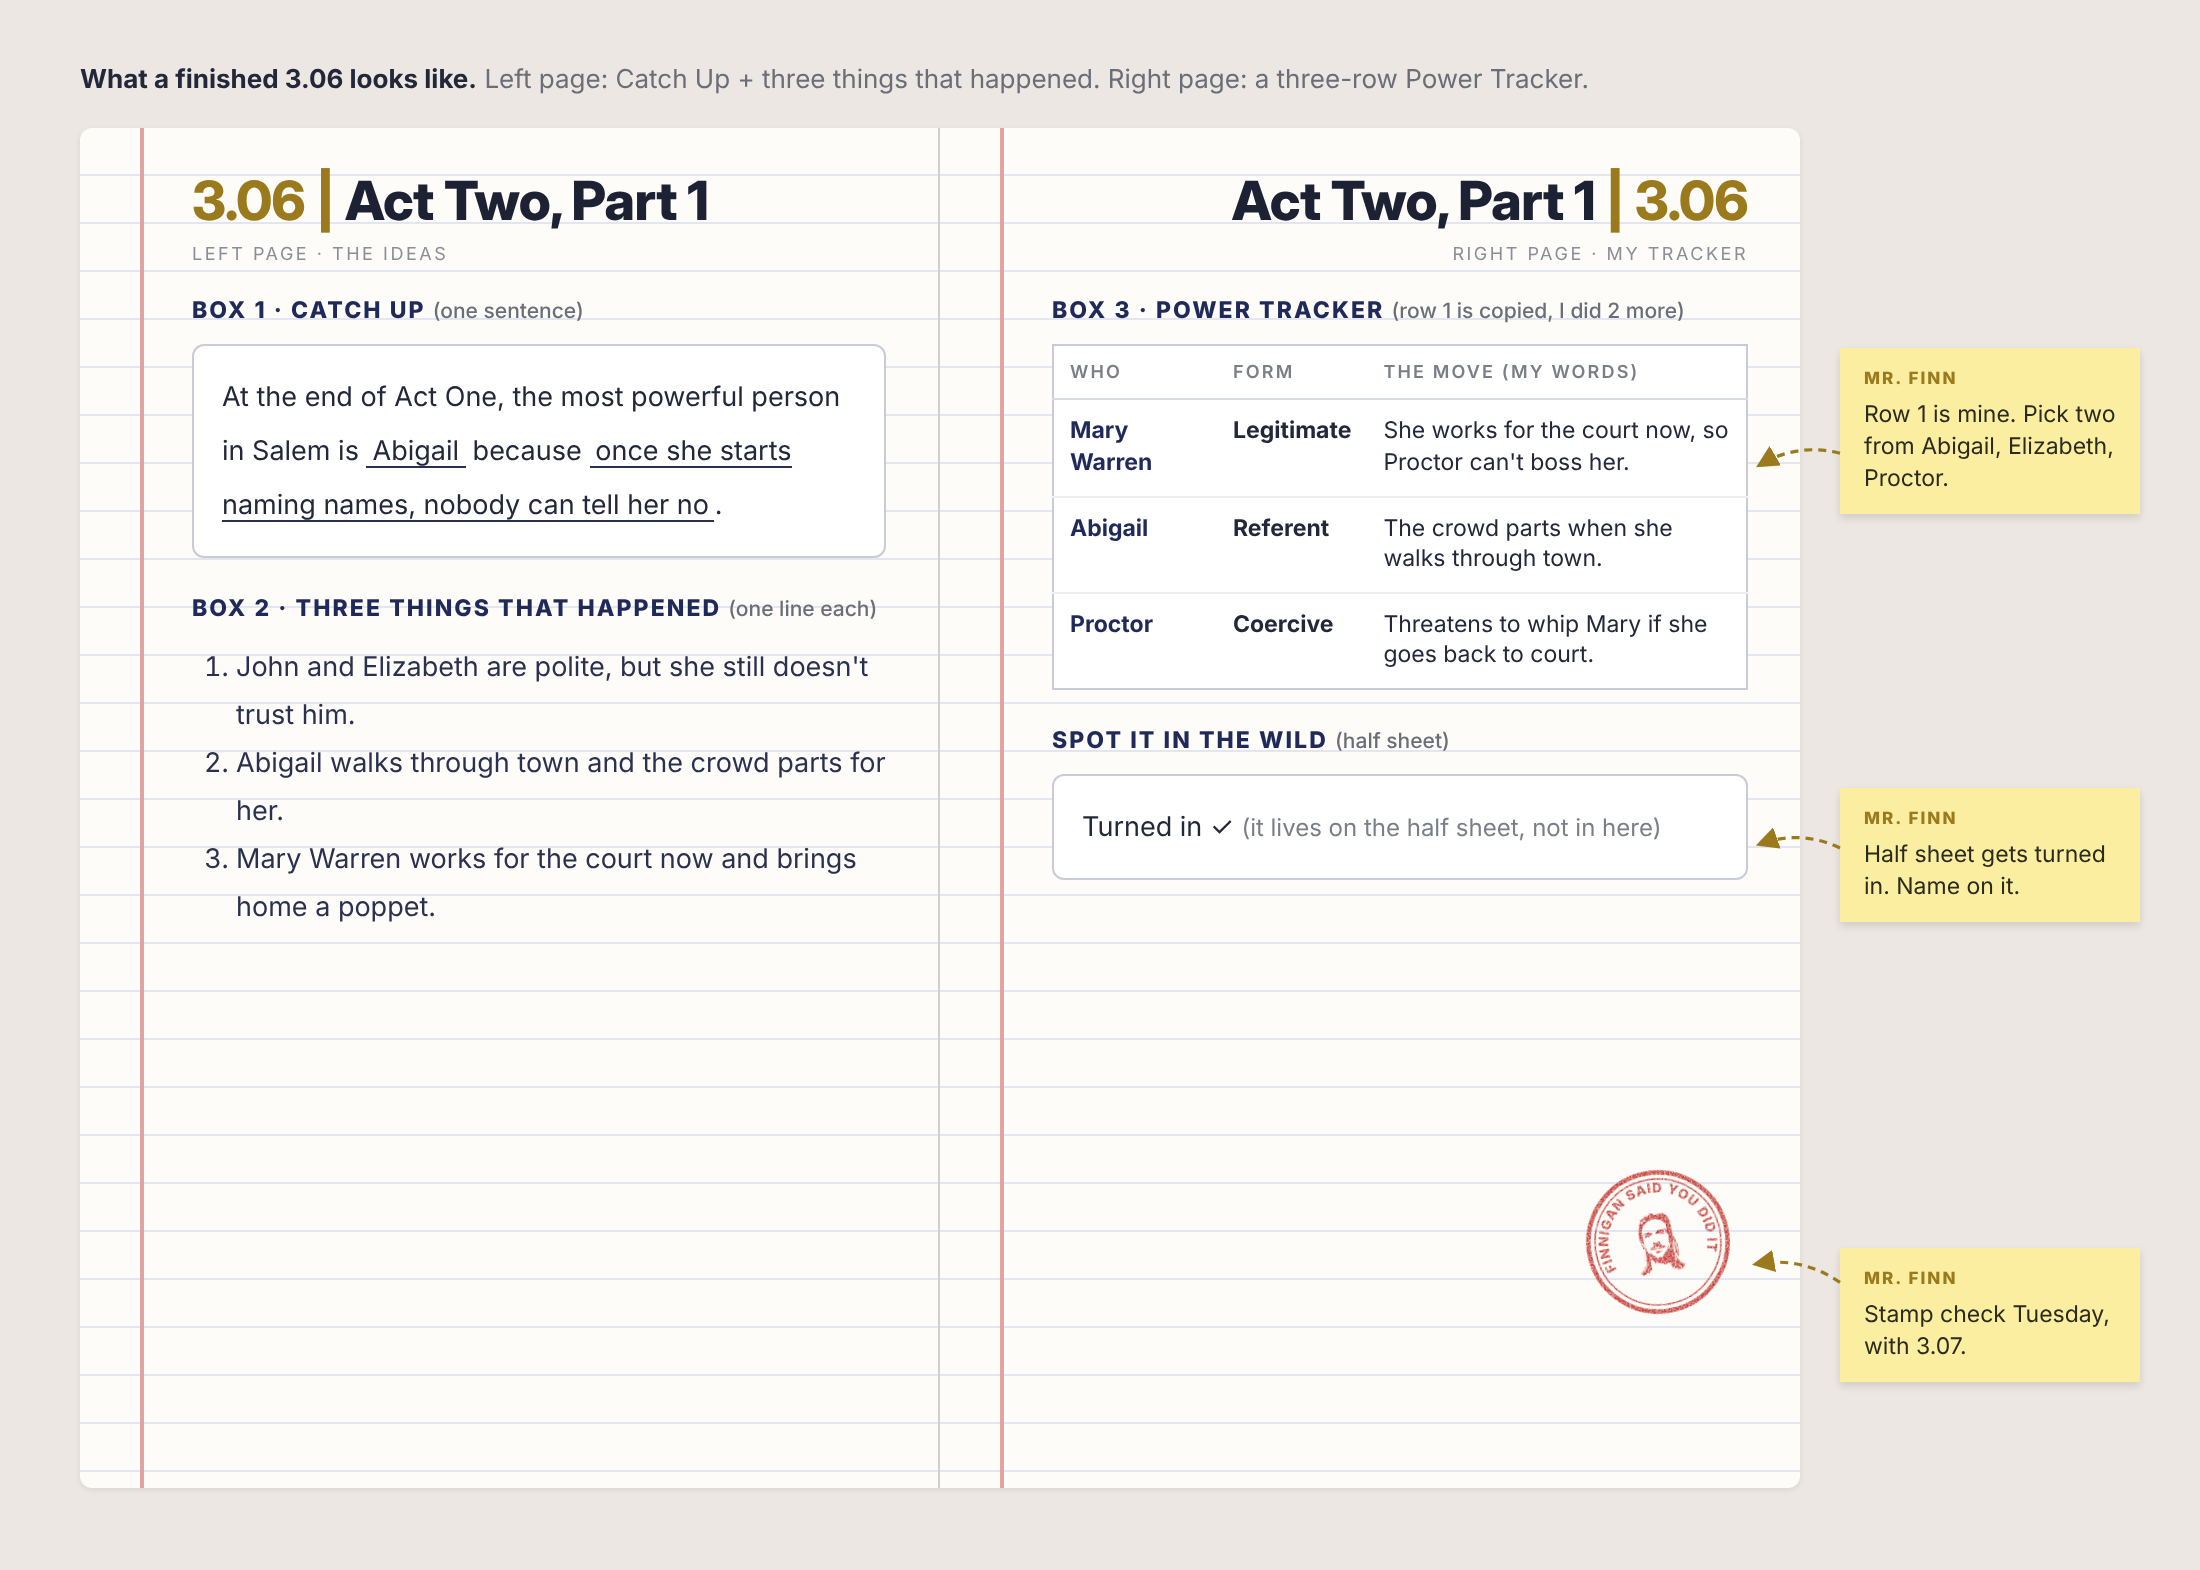
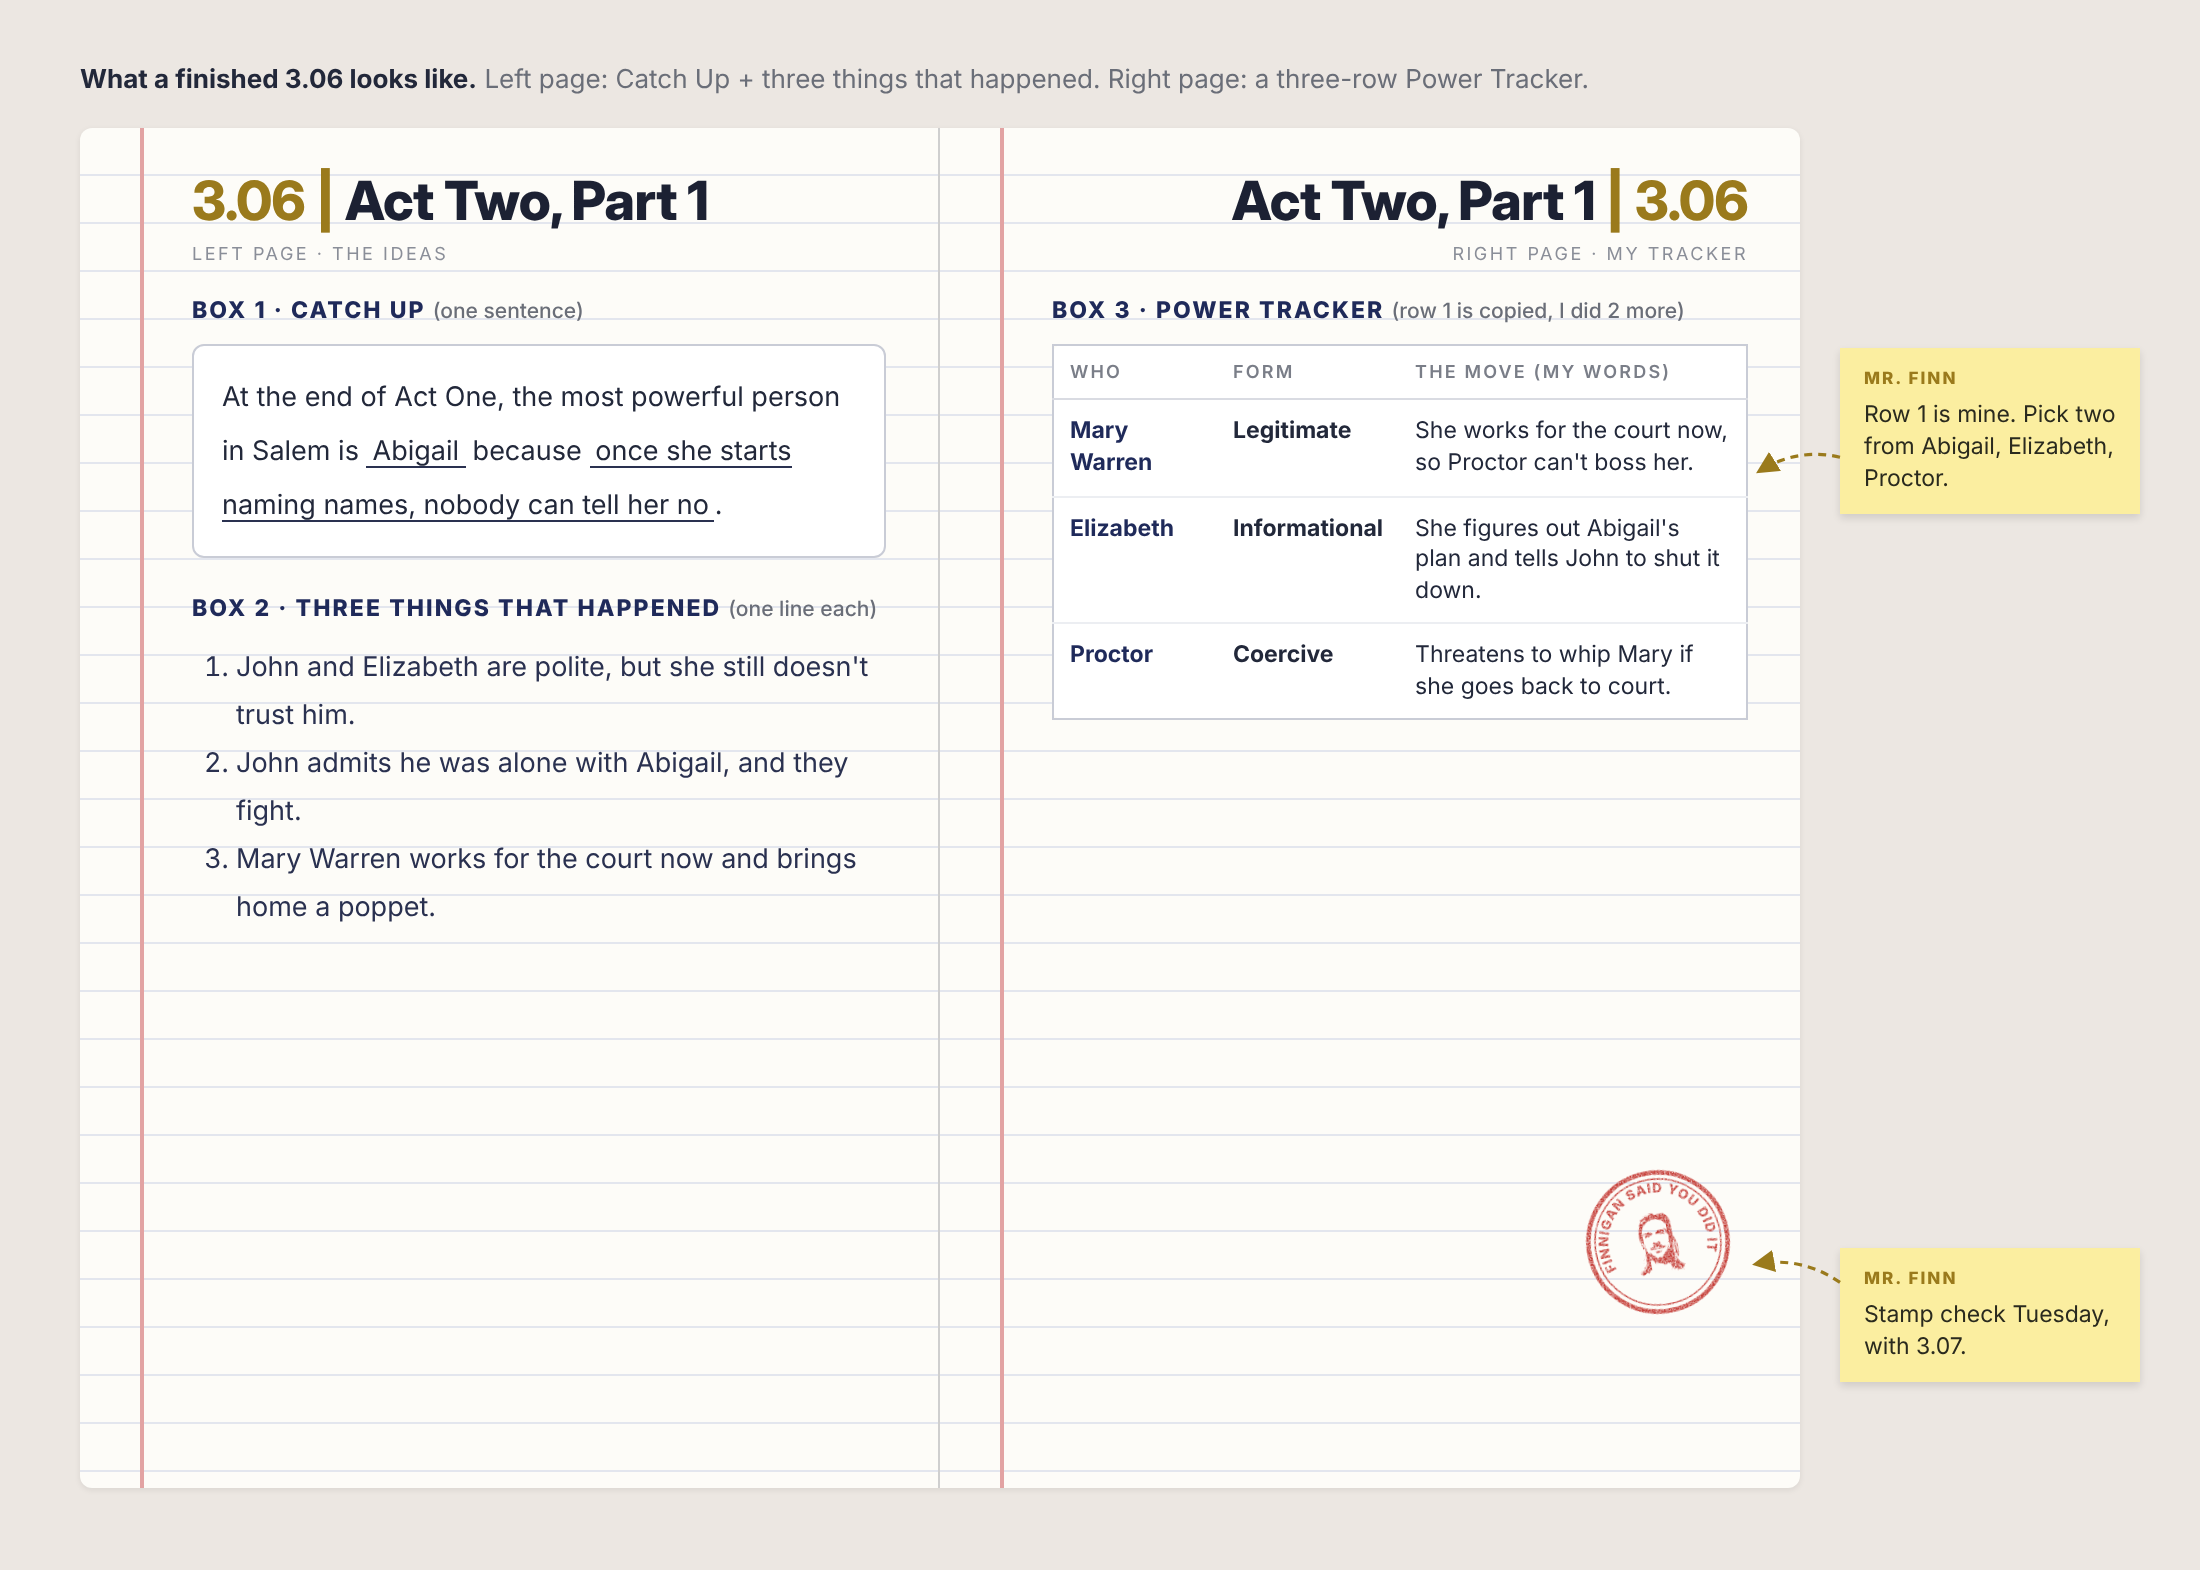
3.06/3.07: align summaries to Act Two scenes, Monday = film

diff --git a/erwc11/mod03/3.07.html b/erwc11/mod03/3.07.html
@@ -117,7 +117,7 @@
   <h2>Purpose</h2>
   <p>Last time, Mary Warren came home with a doll.</p>
   <p>Today Hale shows up, and so does the court.</p>
-  <p>You finish Act Two and track the power.</p>
+  <p>You watch the end of Act Two and track the power.</p>
   <div class="pages">
     <div><b>Left page</b>Catch Up + three things that happened</div>
     <div><b>Right page</b>Power Tracker</div>
@@ -133,16 +133,14 @@
 </section>
 
 <section>
-  <h2><span class="num">II.</span> Read, Watch, Listen</h2>
+  <h2><span class="num">II.</span> Watch</h2>
   <p class="meta"><b>20 min</b> &middot; Left page, middle</p>
   <ol class="steps">
-    <li>Read Beat 4 below. 2 minutes.</li>
-    <li>Watch the film clip: Hale quizzes Proctor. 2 minutes.</li>
-    <li>The audiobook plays to the end of Act Two. Follow Beat 5. About 15 minutes.</li>
-    <li>Left page: three things that happened. One line each.</li>
+    <li>Watch the film from Hale&rsquo;s visit to Elizabeth&rsquo;s arrest. Follow Scenes 3 and 4 below.</li>
+    <li>When it stops, left page: three things that happened. One line each.</li>
   </ol>
-  <p><strong>Beat 4 &middot; Hale makes a house call.</strong> Reverend Hale stops by, checking on families whose names came up. He asks Proctor to list the Ten Commandments. Proctor gets nine. The one he forgets is adultery. Elizabeth has to fill it in. (Oof.) Proctor tells Hale that Abigail admitted it wasn&rsquo;t witchcraft. Hale wobbles, but he doesn&rsquo;t budge.</p>
-  <p><strong>Beat 5 &middot; The needle.</strong> Giles Corey and Francis Nurse burst in: their wives have been arrested. Then court officers Cheever and Herrick arrive with a warrant for Elizabeth. Cheever finds the poppet with a needle stuck in it. That same night, Abigail screamed at dinner and a needle was pulled from her stomach. She says Elizabeth&rsquo;s spirit stabbed her. Mary admits she made the doll and stuck the needle in it herself, with Abigail sitting right next to her. Doesn&rsquo;t matter. Elizabeth leaves in chains. Proctor tears up the warrant and orders Mary to tell the court the truth. Mary sobs that she can&rsquo;t. Curtain.</p>
+  <p><strong>Scene 3 &middot; Hale makes a house call.</strong> Reverend Hale stops by to warn them that Elizabeth was named in court, and to test them. Why does John skip church? Can he list the Ten Commandments? John gets nine. The one he forgets is adultery. Elizabeth has to fill it in. (Oof.) John tells Hale that Abigail admitted none of it was witchcraft. Hale asks him to say that in court. Then Giles Corey and Francis Nurse burst in: Martha Corey and Rebecca Nurse have been arrested.</p>
+  <p><strong>Scene 4 &middot; The needle.</strong> Court officers Cheever and Herrick show up with a warrant for Elizabeth. Cheever finds the poppet with a needle inside it. Here&rsquo;s why that matters: Abigail was stabbed with a needle at dinner at Parris&rsquo;s house, and she says Elizabeth&rsquo;s spirit did it. Mary admits she made the doll in court and put the needle in herself, with Abigail sitting right next to her. Doesn&rsquo;t matter. They take Elizabeth anyway. John tells Mary she has to testify against Abigail. Mary is terrified the girls will turn on her. And she knows about the affair.</p>
 </section>
 
 <section>

diff --git a/erwc11/mod03/3.06.html b/erwc11/mod03/3.06.html
@@ -136,12 +136,11 @@
   <h2><span class="num">II.</span> Listen</h2>
   <p class="meta"><b>20 min</b> &middot; Left page, middle</p>
   <ol class="steps">
-    <li>The audiobook plays for 15 minutes from the start of Act Two. Follow Beats 1 to 3 below.</li>
+    <li>The audiobook plays for 15 minutes from the start of Act Two. Follow Scenes 1 and 2 below.</li>
     <li>Last 5 minutes: left page, three things that happened. One line each.</li>
   </ol>
-  <p><strong>Beat 1 &middot; Home, not sweet.</strong> John Proctor comes in from planting. He tastes the stew, sneaks in some salt, then tells Elizabeth it&rsquo;s seasoned perfectly. They are being very polite, which is how you know it&rsquo;s bad. Seven months after the affair, she still doesn&rsquo;t trust him.</p>
-  <p><strong>Beat 2 &middot; The court grows teeth.</strong> Elizabeth tells him four judges have come from Boston, led by the Deputy Governor. Fourteen people are in jail. When Abigail walks through town, the crowd parts for her. Elizabeth tells John to go tell the court what Abigail admitted to him: none of it was witchcraft. He stalls. Why? He was alone with Abigail when she said it. Elizabeth notices.</p>
-  <p><strong>Beat 3 &middot; Mary Warren clocks in.</strong> Mary, their servant, now works for the court. She comes home and hands Elizabeth a little rag doll, a poppet, that she sewed in court. The count is up to 39 arrested. Elizabeth&rsquo;s name came up today, Mary says, and Mary defended her. When Proctor threatens to whip her, she pushes back. She&rsquo;s an official of the court now.</p>
+  <p><strong>Scene 1 &middot; Home, not sweet.</strong> John Proctor comes home late from the fields and eats dinner with Elizabeth. He tells her he&rsquo;s trying to make her happy. She wants to know if he went to Salem. Their servant, Mary Warren, spent all day there, even though John told her not to. Mary is an official of the court now. Elizabeth fills him in: four judges, the Deputy Governor in charge, fourteen people in jail. She tells John to go to Salem and say Abigail is a fake. He hesitates. He can&rsquo;t prove what Abigail told him, because they were alone. That&rsquo;s news to Elizabeth. They fight. He hates being suspected. She can&rsquo;t fully trust him since the affair.</p>
+  <p><strong>Scene 2 &middot; Mary Warren clocks in.</strong> Mary comes home and tells John she&rsquo;ll be gone every day now, because she works for the court. She hands Elizabeth a poppet, a little rag doll she sewed in court. Thirty-nine people are in jail, and Goody Osburn will hang for not confessing. Then the bomb: Elizabeth&rsquo;s name came up in court. Mary says she defended her, and the charge was dropped. When John threatens to whip her, Mary stands up to him. Elizabeth puts it together. Abigail wants her dead so she can take her place. She tells John to go tell Abigail it will never happen. They fight again.</p>
 </section>
 
 <section>
